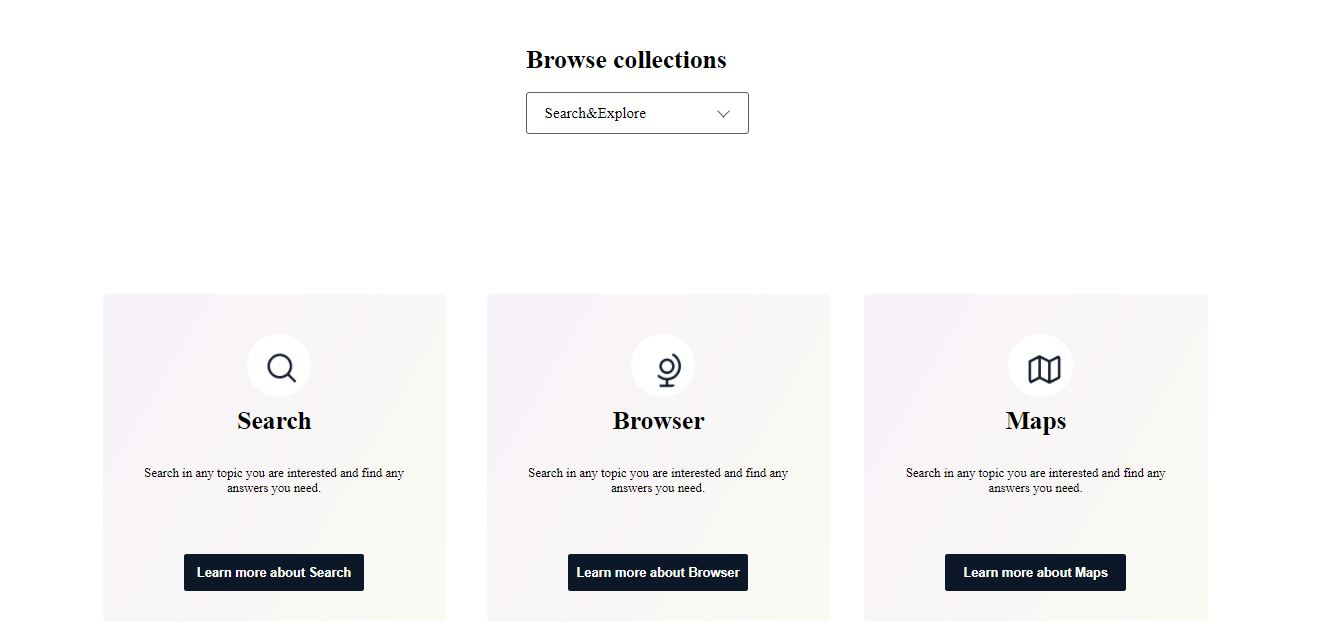
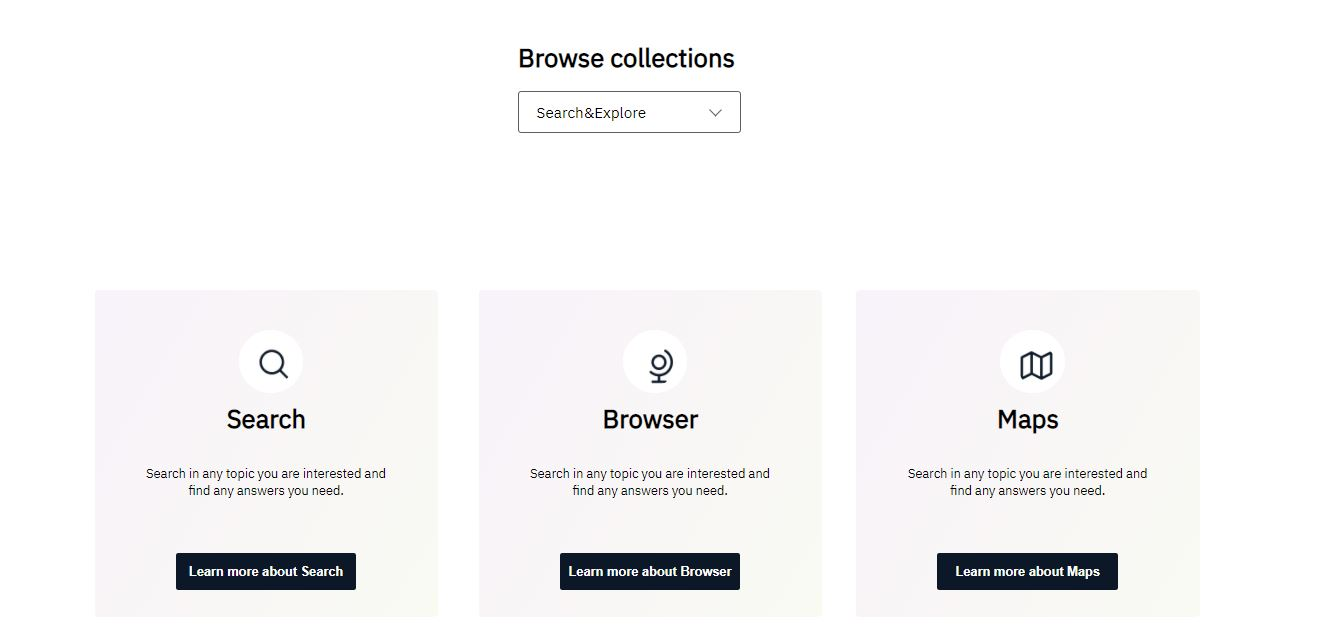
update productlist

diff --git a/product-lists/index.html b/product-lists/index.html
@@ -7,7 +7,8 @@
     <title>Product List</title>
     <link rel="stylesheet" href="https://pro.fontawesome.com/releases/v5.10.0/css/all.css" integrity="sha384-AYmEC3Yw5cVb3ZcuHtOA93w35dYTsvhLPVnYs9eStHfGJvOvKxVfELGroGkvsg+p" crossorigin="anonymous"/>
     <link rel="stylesheet" href="style.css">
-    
+    <link rel="preconnect" href="https://fonts.gstatic.com">
+    <link href="https://fonts.googleapis.com/css2?family=IBM+Plex+Sans&display=swap" rel="stylesheet">
 </head>
 <body>
     <div class="browse-collections">

diff --git a/product-lists/style.css b/product-lists/style.css
@@ -1,3 +1,6 @@
+body{
+    font-family: 'IBM Plex Sans', sans-serif;
+}
 .custom-select-wrapper {
     position: relative;
     display: inline-block;
